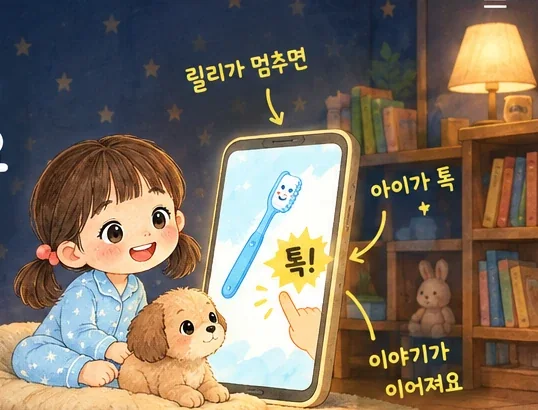
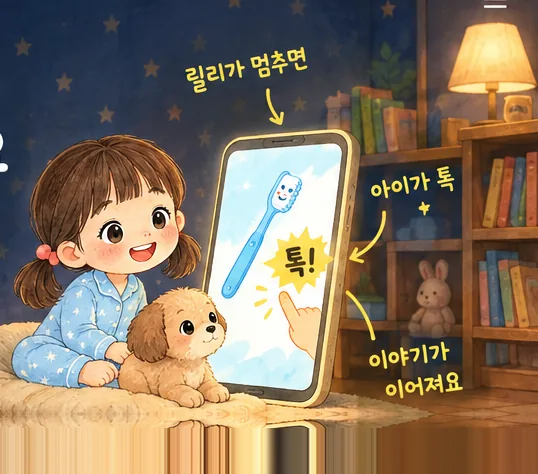
랜딩 다듬기: 첫 화면 그림 세 장 교대, 움직임, 하루 5분과 이야기가 계속된다는 문구
- 첫 화면 그림 세 장(칫솔, 거품, 잠자리)을 6초마다 1초 동안 겹쳐 바꿈. 첫 장만 바로 받고(LCP) 나머지는 load 뒤, 움직임 줄이기와 탭 숨김이면 멈춤
- 그림 아래는 글자 없는 바닥 15줄을 거울처럼 이어 붙이고 나머지는 물결 밑에 숨김(블러 없음), 물결이 그림을 곡선대로 자름, 말풍선 글자는 안 잘림
- 움직임: 첫 화면 글 차례 등장, 톡! 한 번 튐, 그림 천천히 떠 있음, 단추 빛, 아래 섹션 차례 등장(motion.js). 스크립트 없거나 움직임 줄이기면 모두 그대로 보임
- 문구: 2분을 하루 5분으로(title, og, twitter, 첫 화면, 귀에 익혀요, 마지막), 단추 무료로 들어보기, 질문 답 한 편이 2분 남짓이에요, 이야기 섹션 릴리의 하루는 계속돼요, 새 이야기가 계속 더해져요, 푸터 가입하고 모든 이야기 보기
- 느린 조건 LCP 휴대폰 764~1076ms, 가로 휴대폰 632~640ms, 태블릿 932~1080ms

Refs #9

diff --git a/hello/index.html b/hello/index.html
@@ -5,8 +5,8 @@
 <meta name="viewport" content="width=device-width, initial-scale=1, viewport-fit=cover">
 <meta name="color-scheme" content="light only">
 <meta name="robots" content="noindex, nofollow">
-<title>릴리랑 | 아이가 이야기에 끼어드는 2분 영어 그림책</title>
-<meta name="description" content="4~7세 아이와 함께 듣고, 누르며 노는 2분 영어 그림책. 로그인 없이 EP01 이 닦기를 바로 들어 볼 수 있어요.">
+<title>릴리랑 | 아이가 이야기에 끼어드는 하루 5분 영어 그림책</title>
+<meta name="description" content="4~7세 아이와 함께 듣고, 누르며 노는 하루 5분 영어 그림책. 로그인 없이 EP01 이 닦기를 바로 들어 볼 수 있어요.">
 <link rel="canonical" href="https://lily.wspace.ai.kr/hello/">
 
 <link rel="icon" href="/brand/favicon.ico" sizes="any">
@@ -17,15 +17,15 @@
 <meta property="og:site_name" content="릴리랑">
 <meta property="og:locale" content="ko_KR">
 <meta property="og:url" content="https://lily.wspace.ai.kr/hello/">
-<meta property="og:title" content="릴리랑 | 아이가 이야기에 끼어드는 2분 영어 그림책">
-<meta property="og:description" content="4~7세 아이와 함께 듣고, 누르며 노는 2분 영어 그림책. 로그인 없이 바로 들어 볼 수 있어요.">
+<meta property="og:title" content="릴리랑 | 아이가 이야기에 끼어드는 하루 5분 영어 그림책">
+<meta property="og:description" content="4~7세 아이와 함께 듣고, 누르며 노는 하루 5분 영어 그림책. 로그인 없이 바로 들어 볼 수 있어요.">
 <meta property="og:image" content="https://lily.wspace.ai.kr/og.jpg">
 <meta property="og:image:width" content="1200">
 <meta property="og:image:height" content="630">
 <meta property="og:image:alt" content="릴리랑 로고와 욕실에서 올려다보며 웃는 릴리">
 <meta name="twitter:card" content="summary_large_image">
-<meta name="twitter:title" content="릴리랑 | 아이가 이야기에 끼어드는 2분 영어 그림책">
-<meta name="twitter:description" content="4~7세 아이와 함께 듣고, 누르며 노는 2분 영어 그림책. 로그인 없이 바로 들어 볼 수 있어요.">
+<meta name="twitter:title" content="릴리랑 | 아이가 이야기에 끼어드는 하루 5분 영어 그림책">
+<meta name="twitter:description" content="4~7세 아이와 함께 듣고, 누르며 노는 하루 5분 영어 그림책. 로그인 없이 바로 들어 볼 수 있어요.">
 <meta name="twitter:image" content="https://lily.wspace.ai.kr/og.jpg">
 
 <link rel="preconnect" href="https://fonts.googleapis.com">
@@ -40,19 +40,23 @@
     <div class="inner">
       <div class="copy">
         <h1>아이가 <b>톡!</b> 눌러야<br>이야기가 이어져요</h1>
-        <p class="sub">하루 습관마다 2분, 4~7세 아이와 부모가 함께 듣는 영어 그림책</p>
-        <div class="go"><a class="btn" href="/ep01/">무료로 2분 들어보기</a></div>
+        <p class="sub">하루 5분, 4~7세 아이와 부모가 함께 듣는 영어 그림책</p>
+        <div class="go"><a class="btn" href="/ep01/">무료로 들어보기</a></div>
         <p class="note">로그인 없이 바로 시작해요</p>
       </div>
-      <img class="art" src="img/hero.webp" width="538" height="410" fetchpriority="high" alt="릴리와 비스킷이 빛나는 휴대폰 속 칫솔을 톡 누르는 그림">
+      <div class="stage">
+        <img class="art" src="img/hero.webp" width="538" height="474" fetchpriority="high" alt="릴리와 비스킷이 빛나는 휴대폰 속 칫솔을 톡 누르는 그림">
+        <img class="art alt" data-src="img/hero-2.webp" width="538" height="474" alt="">
+        <img class="art alt" data-src="img/hero-3.webp" width="538" height="474" alt="">
+      </div>
     </div>
     <svg class="edge" viewBox="0 0 1440 56" preserveAspectRatio="none" aria-hidden="true"><path d="M0 56V30c160-22 320-26 480-12s320 30 480 18 320-30 480-22v42z" fill="#fefefd"/></svg>
   </header>
 
   <section class="stories">
     <div class="wrap">
-      <h2 class="sec-title">하루 습관마다 한 편씩</h2>
-      <p class="sec-lead">아침부터 밤까지, 2분짜리 그림책 7편</p>
+      <h2 class="sec-title">릴리의 하루는 계속돼요</h2>
+      <p class="sec-lead">하루 습관마다 한 편씩, 새 이야기가 계속 더해져요</p>
       <div class="circles">
         <a class="circle" href="/join/"><div class="dot"><img loading="lazy" decoding="async" src="img/ep-wake.webp" alt=""></div><b>일어나기</b><small>Wake Up!</small></a>
         <a class="circle" href="/join/"><div class="dot"><img loading="lazy" decoding="async" src="img/ep-wash.webp" alt=""></div><b>세수하기</b><small>Splash, Splash!</small></a>
@@ -79,7 +83,7 @@
 
   <section class="ways">
     <div class="wrap">
-      <h2 class="sec-title">시험 대신, 매일 2분 귀에 익혀요</h2>
+      <h2 class="sec-title">시험 대신, 하루 5분 귀에 익혀요</h2>
       <div class="grid">
         <div class="way"><img loading="lazy" decoding="async" src="img/home-how-listen.webp" alt=""><div><b>같은 편을 여러 번</b><p>3번 이어 듣기를 켜 두면 연달아 들려줘요.</p></div></div>
         <div class="way"><img loading="lazy" decoding="async" src="img/home-how-tap.webp" alt=""><div><b>아이 손으로 이어 가요</b><p>릴리가 기다리면 아이가 직접 눌러야 다음 장면이 나와요.</p></div></div>
@@ -93,7 +97,7 @@
     <div class="wrap">
       <h2 class="sec-title">부모님이 먼저 묻는 것</h2>
       <dl>
-        <div><dt>화면을 오래 보진 않나요?</dt><dd>한 편이 2분이면 끝나요. 다 들으면 멈춰요.</dd></div>
+        <div><dt>화면을 오래 보진 않나요?</dt><dd>한 편이 2분 남짓이에요. 다 들으면 멈추고, 하루 5분이면 충분해요.</dd></div>
         <div><dt>아이 정보를 받나요?</dt><dd>아이 이름, 사진, 학교는 묻지 않아요. 부모님 계정만 만들어요.</dd></div>
         <div><dt>앱을 깔아야 하나요?</dt><dd>아니요. 휴대폰, 태블릿, PC 브라우저에서 바로 열려요.</dd></div>
         <div><dt>얼마예요?</dt><dd>이 닦기 편은 로그인 없이 무료, 가입도 무료예요.</dd></div>
@@ -103,11 +107,12 @@
 
   <section class="last">
     <img loading="lazy" decoding="async" src="img/end.webp" alt="">
-    <h2>오늘 습관 하나에<br>2분만 써 보세요</h2>
+    <h2>오늘 습관 하나에<br>5분만 써 보세요</h2>
     <p>로그인 없이 바로 시작해요</p>
-    <a class="btn" href="/ep01/">무료로 2분 들어보기</a>
+    <a class="btn" href="/ep01/">무료로 들어보기</a>
   </section>
-  <footer class="foot"><a href="/join/">가입하고 7편 모두 보기</a><br><a href="/privacy/">개인정보처리방침</a></footer>
+  <footer class="foot"><a href="/join/">가입하고 모든 이야기 보기</a><br><a href="/privacy/">개인정보처리방침</a></footer>
   <link rel="stylesheet" href="https://fonts.googleapis.com/css2?family=Gaegu:wght@700&family=Jua&family=Noto+Sans+KR:wght@400;700&display=swap">
+<script src="motion.js" defer></script>
 </body>
 </html>

diff --git a/hello/hello.css b/hello/hello.css
@@ -39,7 +39,7 @@ a:focus-visible { outline: 3px solid var(--sky-deep); outline-offset: 4px; borde
 .hero .call { position: absolute; font-size: 21px; color: var(--honey); }
 .hero .call.a { left: 0; top: -2%; font-size: 18px; } .hero .call.b { right: 0; top: 0; } .hero .call.c { right: 4%; bottom: 2%; }
 
-/* 2. 이야기 7편: 색 동그라미 */
+/* 2. 이야기: 색 동그라미 */
 .stories { padding: 40px 0 46px; text-align: center; }
 .sec-title { font-size: 30px; line-height: 1.22; }
 .sec-lead { font-size: 16px; line-height: 1.6; color: var(--ink-2); margin-top: 10px; }
@@ -114,7 +114,7 @@ a:focus-visible { outline: 3px solid var(--sky-deep); outline-offset: 4px; borde
   .demo { padding: 50px 0 90px; }
   .frames { justify-content: center; gap: 36px; overflow: visible; margin-top: 50px; }
   .frame { width: 280px; }
-  .frame:nth-child(2) { transform: translateY(34px); }
+  .frame:nth-child(2) { margin-top: 34px; }
   .frame b { font-size: 32px; } .frame span { font-size: 17px; }
   .demo .after { font-size: 18px; margin-top: 56px; }
   .ways { padding: 110px 0 60px; }
@@ -145,21 +145,60 @@ a:focus-visible { outline: 3px solid var(--sky-deep); outline-offset: 4px; borde
 .hero .sub { font-size: 17px; line-height: 1.5; margin: 14px 0 22px; color: var(--navy-soft); }
 .hero .note { font-size: 14px; color: var(--navy-soft); margin-top: 12px; }
 .hero .art { display: block; width: 100%; margin-top: 20px; -webkit-mask-image: linear-gradient(to bottom, transparent, #000 14%); mask-image: linear-gradient(to bottom, transparent, #000 14%); }
-.hero .edge { display: block; width: 100%; height: 28px; margin-top: -27px; position: relative; }
+/* 첫 화면 그림 세 장(칫솔, 거품, 잠자리)은 같은 크기로 겹쳐 두고 차례로 바뀐다(motion.js).
+   세 장 모두 아래에 맨 아래 줄을 세로로 늘린 60px(538 기준)가 있고, 그 부분은 물결 밑에 숨긴다 */
+.hero .stage { position: relative; margin-bottom: calc(-100% * 60 / 538 - 10px); }
+.hero .stage .alt { position: absolute; left: 0; top: 0; opacity: 0; transition: opacity 1s ease-in-out; }
+.hero .stage .art.on { opacity: 1; }
+.hero .stage .art.off { opacity: 0; }
+.hero .stage .art { margin: 0; }
+.hero .stage { margin-top: 20px; }
+.hero .edge { display: block; width: 100%; height: 28px; margin-top: -27px; position: relative; z-index: 1; transform: scaleX(-1); }
 .hero { padding: 0; } .hero .go, .hero .note { text-align: left; }
 @media (min-width: 900px) {
   .hero .bar { max-width: 1280px; margin: 0 auto; padding: 28px 48px 0; }
   .hero .bar img { height: 52px; } .hero .bar span { font-size: 38px; }
-  .hero .inner { max-width: 1280px; margin: 0 auto; display: grid; grid-template-columns: 1fr 1.2fr; align-items: center; padding-bottom: 40px; }
+  /* 그림을 첫 화면 바닥에 붙이고 물결 밑까지 내려, 물결이 그림을 곡선대로 자르게 */
+  .hero .inner { max-width: 1280px; margin: 0 auto; display: grid; grid-template-columns: 1fr 1.2fr; align-items: end; padding-bottom: 0; }
+  .hero .copy { align-self: center; }
   .hero .copy { padding: 30px 0 30px 48px; }
   .hero h1 { font-size: clamp(48px, 5vw, 72px); line-height: 1.1; }
   .hero .sub { font-size: 23px; margin: 22px 0 36px; }
   .hero .note { font-size: 16px; margin-left: 32px; }
   /* 그림 네 변을 남색 벽으로 부드럽게 번지게(위, 왼쪽, 오른쪽은 길게, 아래는 물결이 덮음) */
   .hero .art { margin-top: 10px; -webkit-mask-image: linear-gradient(to right, transparent, #000 18%, #000 80%, transparent), linear-gradient(to bottom, transparent, #000 24%); -webkit-mask-composite: source-in; mask-image: linear-gradient(to right, transparent, #000 18%, #000 80%, transparent), linear-gradient(to bottom, transparent, #000 24%); mask-composite: intersect; }
-  .hero .edge { height: 56px; margin-top: -55px; }
+  .hero .edge { height: 56px; margin-top: -55px; transform: scaleX(-1); }
+  .hero .stage { margin-top: 10px; margin-bottom: calc(-100% * 60 / 538 + 30px); }
   .hero { display: block; max-width: none; margin: 0; padding: 0; }
   .hero .go { margin-top: 0; }
 }
 .hero .bar img { width: auto; }
 .hero .art { height: auto; }
+.hero .stage .art:first-child { transition: opacity 1s ease-in-out; }
+
+/* ===== 움직임 =====
+   첫 화면: 글이 차례로 떠오르고 "톡!"이 한 번 튄다, 그림은 천천히 숨 쉬듯 떠 있다(그림 자체는 처음부터 보임, LCP 보호).
+   아래: 화면에 들어올 때 차례로 떠오름(motion.js). 동그라미와 화면은 누르면 살짝 눌림. 움직임 줄이기 설정이면 모두 끔. */
+@keyframes rise { from { opacity: 0; transform: translateY(18px); } to { opacity: 1; transform: none; } }
+@keyframes riseT { from { transform: translateY(14px); } to { transform: none; } }
+@keyframes pop { 0%, 100% { transform: none; } 40% { transform: scale(1.18) rotate(-6deg); } 70% { transform: scale(.96) rotate(2deg); } }
+@keyframes drift { 0%, 100% { transform: translateY(0); } 50% { transform: translateY(-8px); } }
+@keyframes shine { 0%, 82% { background-position: -140% 0; } 100% { background-position: 240% 0; } }
+.hero .copy > * { animation: rise .7s cubic-bezier(.2,.8,.2,1) both; }
+.hero .copy > h1 { animation-name: riseT; } /* 제목은 처음부터 보이게(LCP), 위치만 올라온다 */
+.hero .copy > :nth-child(2) { animation-delay: .12s; } .hero .copy > :nth-child(3) { animation-delay: .24s; } .hero .copy > :nth-child(4) { animation-delay: .34s; }
+.hero h1 b { display: inline-block; animation: pop .7s cubic-bezier(.3,1.6,.5,1) .9s both; }
+.hero .stage { animation: drift 7s ease-in-out 1.2s infinite; }
+.hero .btn { background-image: linear-gradient(100deg, transparent 30%, rgba(255,255,255,.55) 50%, transparent 70%); background-size: 60% 100%; background-repeat: no-repeat; animation: shine 6s ease-in-out 2s infinite; }
+.motion .rv { opacity: 0; transform: translateY(22px); transition: opacity .6s ease-out, transform .7s cubic-bezier(.2,.8,.2,1); transition-delay: calc(var(--i, 0) * 70ms); }
+.motion .rv.in { opacity: 1; transform: none; }
+.circle .dot { transition: transform .25s cubic-bezier(.3,1.6,.5,1); }
+.circle:hover .dot, .circle:focus-visible .dot { transform: translateY(-6px) rotate(-3deg); }
+.circle:active .dot { transform: scale(.94); }
+.frame .scr { transition: transform .3s cubic-bezier(.2,.8,.2,1); }
+.frame:hover .scr { transform: translateY(-6px); }
+@media (prefers-reduced-motion: reduce) {
+  .hero .copy > *, .hero h1 b, .hero .stage, .hero .btn { animation: none; }
+  .hero .stage .alt { display: none; }
+  .circle .dot, .frame .scr { transition: none; }
+}

diff --git a/hello/motion.js b/hello/motion.js
@@ -1,0 +1,55 @@
+// 첫 화면 그림 교대: 첫 장은 바로 보이고(LCP), 나머지 두 장은 load 뒤에 받아 5초마다 1초 동안 겹쳐 바뀐다.
+// 움직임 줄이기 설정이면 첫 장만 둔다. 탭이 숨거나 첫 화면이 안 보이면 멈춘다.
+(function () {
+  if (matchMedia('(prefers-reduced-motion: reduce)').matches) return;
+  var stage = document.querySelector('.hero .stage'); if (!stage) return;
+  var imgs = [].slice.call(stage.querySelectorAll('.art'));
+  if (imgs.length < 2) return;
+  var cur = 0, timer = null, ready = false, inView = true;
+  function show(n) {
+    imgs.forEach(function (im, i) { im.classList.toggle('on', i === n); im.classList.toggle('off', i !== n); });
+    cur = n;
+  }
+  function tick() { show((cur + 1) % imgs.length); }
+  function run() {
+    var go = ready && inView && !document.hidden;
+    if (go && !timer) timer = setInterval(tick, 6000);
+    if (!go && timer) { clearInterval(timer); timer = null; }
+  }
+  addEventListener('load', function () {
+    var left = imgs.length - 1;
+    imgs.slice(1).forEach(function (im) {
+      im.addEventListener('load', function () { if (--left === 0) { ready = true; run(); } }, { once: true });
+      im.src = im.getAttribute('data-src');
+    });
+  });
+  document.addEventListener('visibilitychange', run);
+  if ('IntersectionObserver' in window) new IntersectionObserver(function (es) { inView = es[0].isIntersecting; run(); }).observe(stage);
+})();
+
+// 랜딩 움직임: 아래 섹션은 화면에 들어올 때 차례로 떠오른다. 스크립트가 없거나 움직임 줄이기 설정이면 처음부터 다 보인다.
+(function () {
+  if (!('IntersectionObserver' in window) || matchMedia('(prefers-reduced-motion: reduce)').matches) return;
+  var groups = ['.stories .sec-title, .stories .sec-lead', '.circle', '.demo .sec-title, .demo .sec-lead', '.frame', '.demo .after',
+    '.ways .sec-title', '.way', '.qa .sec-title', '.qa dl > div', '.last > *'];
+  var items = [];
+  groups.forEach(function (sel) {
+    document.querySelectorAll(sel).forEach(function (el, i) { el.classList.add('rv'); el.style.setProperty('--i', i); items.push(el); });
+  });
+  document.documentElement.classList.add('motion');
+  // 가로로 넘기는 줄(휴대폰의 실제 화면 세 컷) 안의 항목은 줄 전체가 보일 때 함께 나타나게 한다. 옆으로 숨은 칸이 투명하게 남지 않도록
+  var groupOf = new Map();
+  items.forEach(function (el) {
+    var t = el.closest('.frames') || el;
+    if (!groupOf.has(t)) groupOf.set(t, []);
+    groupOf.get(t).push(el);
+  });
+  var io = new IntersectionObserver(function (es) {
+    es.forEach(function (e) {
+      if (!e.isIntersecting) return;
+      groupOf.get(e.target).forEach(function (el) { el.classList.add('in'); });
+      io.unobserve(e.target);
+    });
+  }, { rootMargin: '0px 0px -8% 0px', threshold: 0.12 });
+  groupOf.forEach(function (_, t) { io.observe(t); });
+})();
